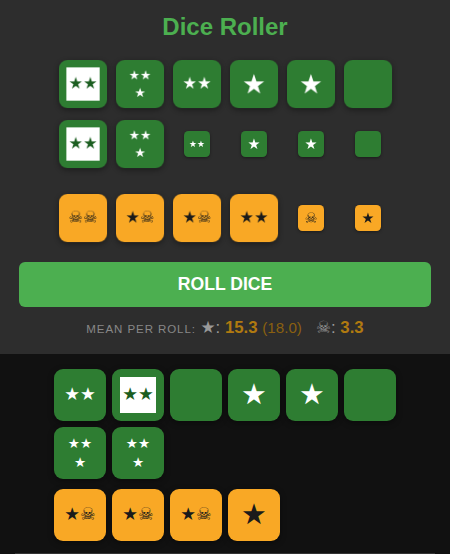
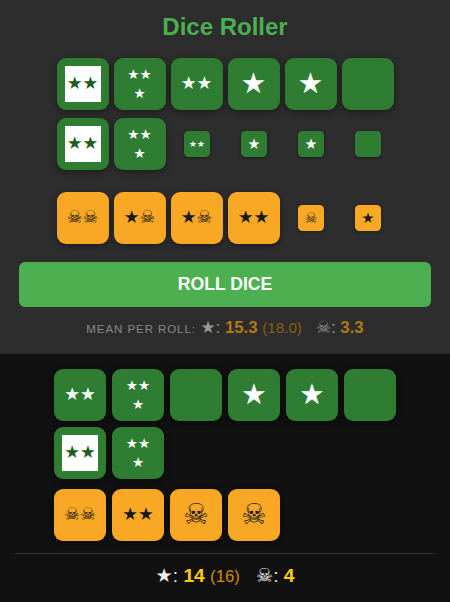
Let results box grow so totals are visible; retake screenshot

diff --git a/index.html b/index.html
@@ -38,7 +38,7 @@
         button:hover { background: #45a049; transform: translateY(-2px); }
 
         /* Roll results */
-        .results { font-size: 1.2rem; background: #111; padding: 15px; height: 200px; overflow-y: auto; }
+        .results { font-size: 1.2rem; background: #111; padding: 15px; min-height: 200px; }
         .stat-val { font-weight: bold; color: #ffcc00; }
         .weighted { color: #d4890a; font-size: 1.05rem; }
         .totals { white-space: nowrap; margin-top: 12px; padding-top: 10px; border-top: 1px solid #333; }
